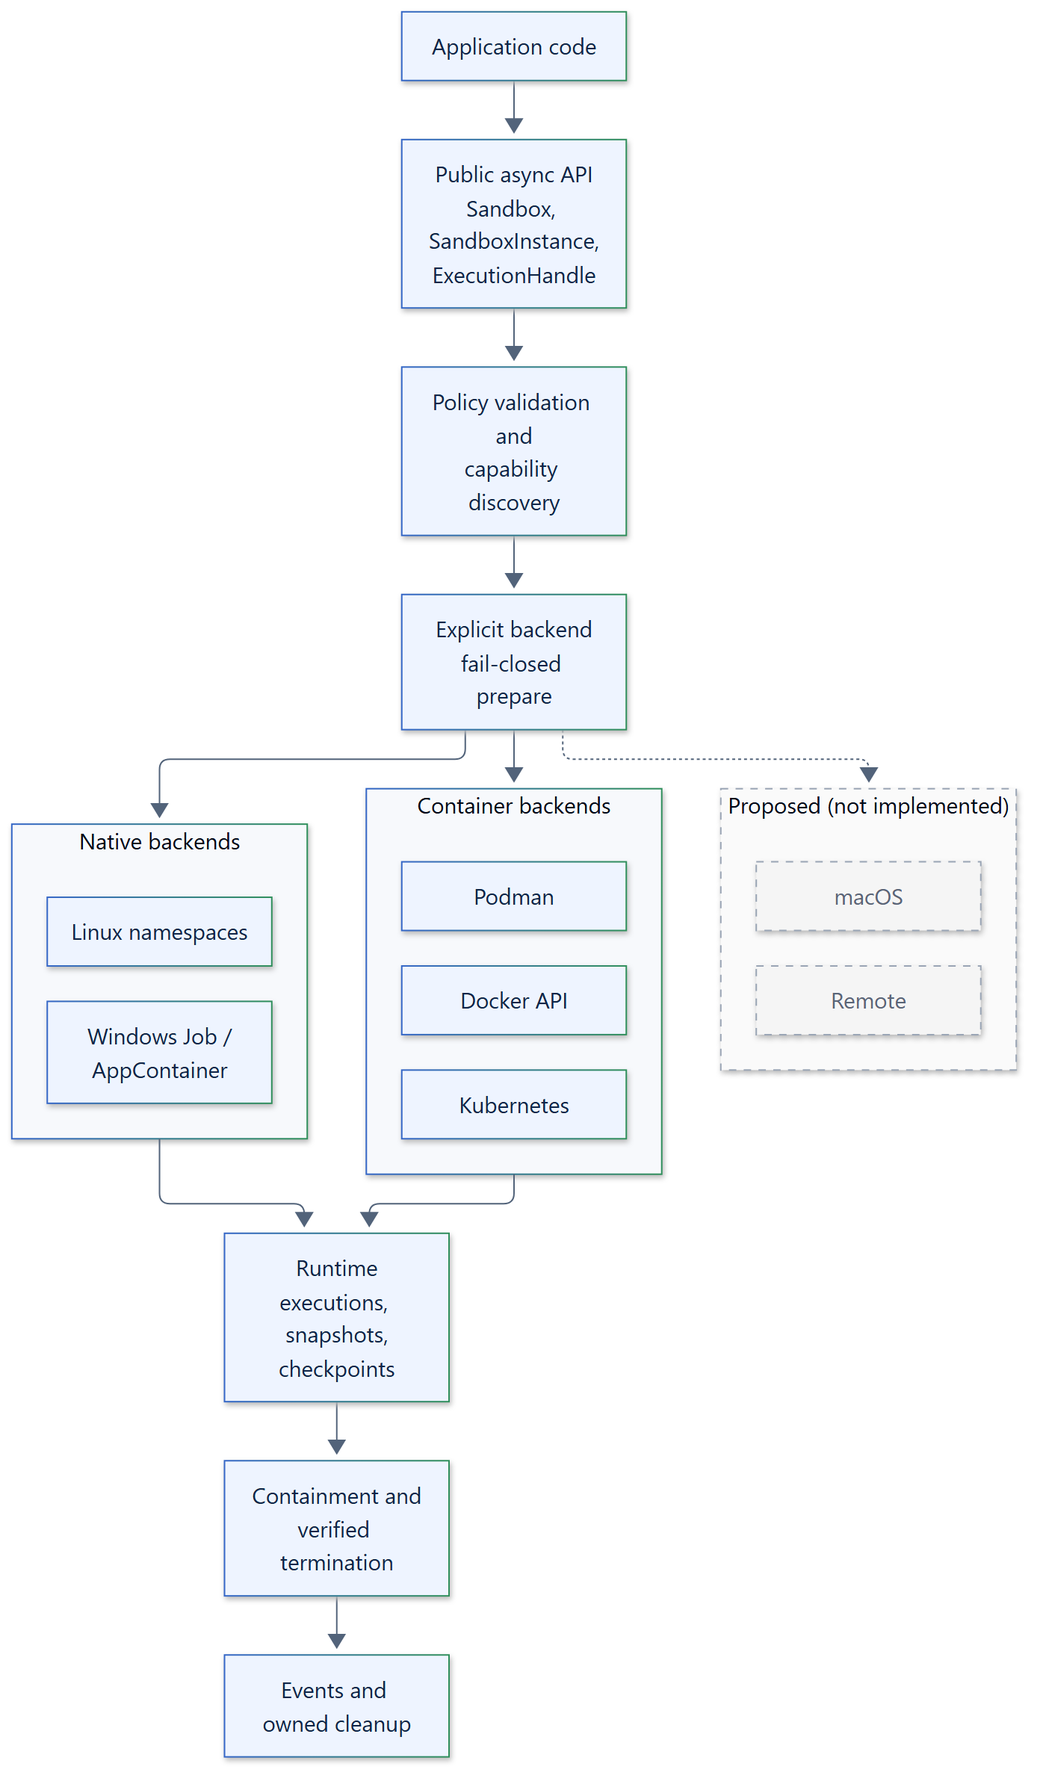
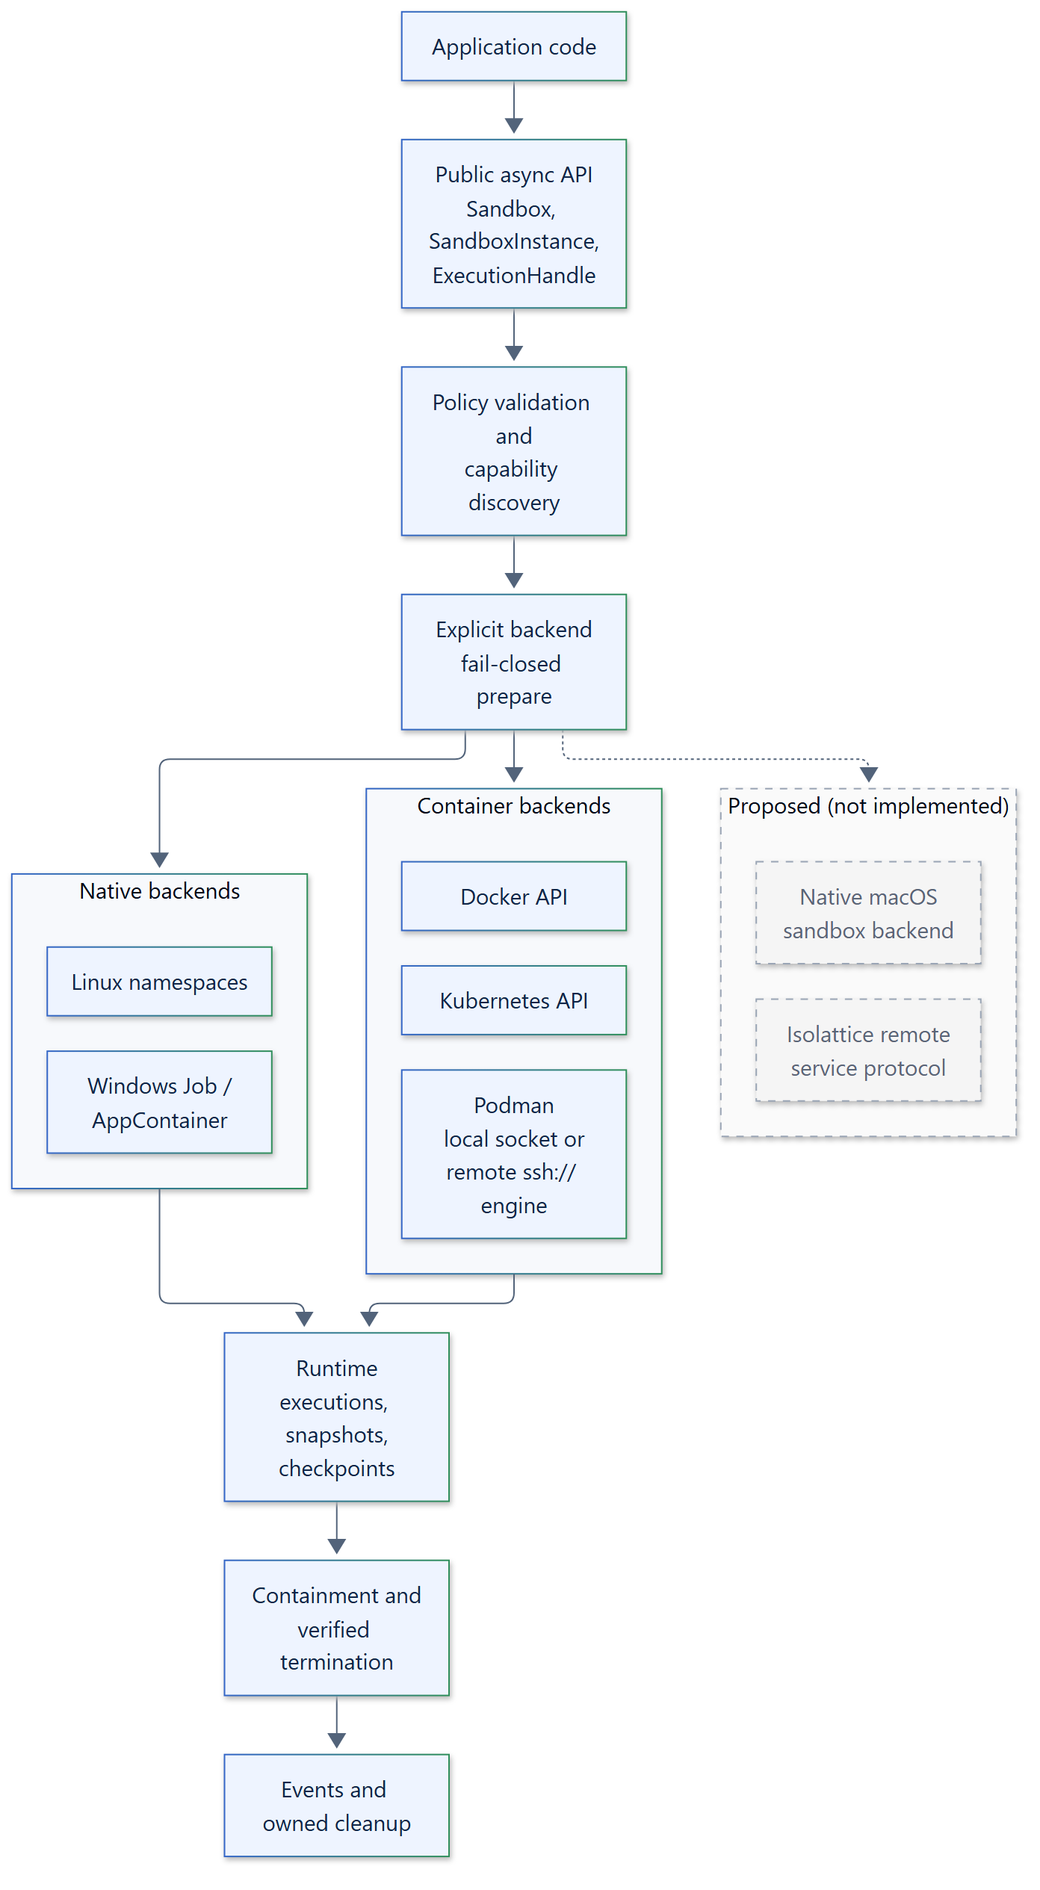
Test remote Podman over SSH in CI and document tested platforms
Add a live job that drives the Podman suite through an ssh:// connection.
Let AppContainers read the real base interpreter tree on Windows runners.
Add a tested-platforms page listing every CI job and what it verifies, and
describe macOS as a tested host using container backends and remote engines
as supported; only a native macOS backend and an Isolattice remote service
remain proposed.

Changed region(s): [[0.2162, 0.0, 0.6487, 0.9883], [0.6796, 0.4015, 0.9885, 0.6177], [0.0, 0.4324, 0.3089, 0.6486]]

diff --git a/docs/reference/tested-platforms.md b/docs/reference/tested-platforms.md
@@ -1,0 +1,88 @@
+# Tested platforms
+
+Every push and pull request runs the
+[CI workflow](https://github.com/smuniharish/isolattice/blob/main/.github/workflows/ci.yml).
+GitHub starts all of its jobs at once and runs them in parallel, up to the account's
+concurrency limit. This page lists what each job verifies. A platform appears here
+only when a job checks it on every run.
+
+## Core suite
+
+The core suite covers the unit, property-based (Hypothesis), contract and skill
+tests: policy validation, capability discovery, the lifecycle state machine, the
+termination engine, bounded output, the artifact stores, snapshot manifests and
+every backend's command and API contract. Warnings fail the run.
+
+| Platform | Images | Python |
+| --- | --- | --- |
+| Ubuntu, x64 | 22.04, 24.04, 26.04 | 3.12, 3.13, 3.14, 3.15 |
+| Ubuntu, arm64 | 22.04, 24.04, 26.04 | 3.12, 3.13, 3.14, 3.15 |
+| Windows, x64 | Server 2022, Server 2025 | 3.12, 3.13, 3.14, 3.15 |
+| Windows, arm64 | Windows 11 | 3.12, 3.13, 3.14, 3.15 |
+| macOS, Apple silicon | 15, 26 | 3.12, 3.13, 3.14, 3.15 |
+| macOS, Intel | 15, 26 | 3.12, 3.13, 3.14, 3.15 |
+| glibc distributions | Debian stable, Fedora, AlmaLinux, Rocky Linux, Amazon Linux, openSUSE Leap, openSUSE Tumbleweed, Arch Linux | 3.12, 3.14 |
+| musl distributions | Alpine, Void Linux | 3.12, 3.14 |
+| BSD | FreeBSD, OpenBSD, NetBSD virtual machines | The system Python package |
+
+The distribution containers run as an unprivileged user, so permission checks behave
+as they do for real callers. The BSD jobs install the built wheel, not the source
+tree. On Windows images the Job Object and AppContainer tests also run, because they
+need no extra setup.
+
+## Live backends
+
+Live jobs provision a real engine, cluster or kernel feature and run the backend's
+integration tests and example scripts against it. Each job fails if a configured
+live test skips or if nothing runs. It also fails if a resource that Isolattice
+labelled as its own is left behind.
+
+| Job | Runner | What runs |
+| --- | --- | --- |
+| Live Podman | Ubuntu, Python 3.12 and 3.14 | Rootless engine, rootful engine with runc, delegated memory, CPU and pids limits, pod instance budgets, CRIU checkpoints and restore, whole-container snapshots, and the S3 artifact store against a disposable object store |
+| Live Podman over SSH | Ubuntu, Python 3.14 | The Podman suite through an `ssh://` connection with a dedicated key and pinned host key, as with a remote engine |
+| Live Docker Engine | Ubuntu | `DockerBackend` against the runner's Docker Engine |
+| Live Kubernetes | Ubuntu | `KubernetesBackend` against a single-node kind cluster |
+| Live Linux namespaces | Ubuntu 24.04 | `LinuxNamespaceBackend` in a delegated systemd scope: namespaces, cgroup v2 limits, seccomp and Landlock |
+| Live Windows | Windows Server 2025, Python 3.12 and 3.14 | `WindowsJobBackend`, the ACL grants, and every `WindowsAppContainerBackend` case, including the check for leftover AppContainer profiles |
+
+The SSH job covers the default Podman profile. Checkpoints, resource limits and S3
+run in the main Podman job.
+
+## Packaging and documentation
+
+| Job | What runs |
+| --- | --- |
+| Lint | Ruff, the Ruff formatter, and Pyrefly for Linux, Windows and macOS, plus repository checks |
+| Lowest dependencies | The full suite on Python 3.12 with the lowest supported version of each dependency |
+| Package | Builds the sdist and wheel, runs `twine check --strict`, and smoke-tests the wheel with and without the S3 extra |
+| Documentation | A strict Zensical build, a link check and a diagram check |
+| Markdown | `markdownlint-cli2` |
+| Coverage | Combines branch coverage from the core and live jobs |
+
+## Verified locally
+
+Maintainers also run the live suites on Windows 11 with Podman Desktop (a Podman
+machine reached over SSH, rootless and rootful), Podman's Docker-compatible API,
+a kind cluster and WSL 2 with a delegated systemd scope.
+
+## Not covered
+
+- **Native macOS sandboxing.** There is no macOS backend, so macOS jobs run only the
+  core suite. Hosted macOS runners can't start a Podman machine because they don't
+  support nested virtualization. On a Mac, use a container backend with a local
+  Podman machine or a remote engine.
+- **Restricted low-integrity tokens on hosted Windows.** Hosted runners either
+  disable User Account Control or can't initialize a low-integrity process. The
+  backend reports the token as unavailable and refuses the policy; it doesn't fall
+  back.
+- **The Isolattice remote service.** The
+  [remote backend protocol](../architecture/15-remote-backend-protocol.md) is
+  proposed. Remote engines through Podman, Docker or Kubernetes connections are
+  supported and tested.
+
+## Related
+
+- [Testing](../development/testing.md)
+- [Platform limitations](../security/platform-limitations.md)
+- [Capabilities](capabilities.md)

diff --git a/README.md b/README.md
@@ -96,14 +96,24 @@ guarantees each one does and doesn't give you.
 
 | Backend | Boundary | Live-tested on |
 | --- | --- | --- |
-| `PodmanBackend` | One restricted container per execution; rootless by default | Podman machine, rootless and rootful |
-| `DockerBackend` | One restricted container per execution through the Docker Engine API | Podman's Docker-compatible API |
-| `KubernetesBackend` | One owned Pod per execution in an explicit namespace; no network isolation | Single-node kind cluster |
-| `LinuxNamespaceBackend` | User, PID, mount, network, IPC and UTS namespaces, delegated cgroup v2, seccomp and Landlock | WSL 2 with a delegated systemd scope |
-| `WindowsAppContainerBackend` | Less-privileged AppContainer inside nested Job Objects; no network | Windows 11 |
-| `WindowsJobBackend` | Job Object containment and budgets. **Not a security boundary:** files, network and registry stay reachable | Windows 11 |
+| `PodmanBackend` | One restricted container per execution; rootless by default | CI on Ubuntu: rootless, rootful runc with CRIU, and a remote engine over `ssh://`. Locally: Podman machine on Windows 11 |
+| `DockerBackend` | One restricted container per execution through the Docker Engine API | CI: Docker Engine on Ubuntu. Locally: Podman's Docker-compatible API |
+| `KubernetesBackend` | One owned Pod per execution in an explicit namespace; no network isolation | Single-node kind cluster, in CI and locally |
+| `LinuxNamespaceBackend` | User, PID, mount, network, IPC and UTS namespaces, delegated cgroup v2, seccomp and Landlock | CI on Ubuntu 24.04 and WSL 2, each with a delegated systemd scope |
+| `WindowsAppContainerBackend` | Less-privileged AppContainer inside nested Job Objects; no network | CI on Windows Server, and Windows 11 |
+| `WindowsJobBackend` | Job Object containment and budgets. **Not a security boundary:** files, network and registry stay reachable | CI on Windows Server, and Windows 11 |
 
-A macOS backend and remote execution are proposed and not implemented. The
+**macOS** is a tested host: CI runs the full core suite on macOS 15 and 26 (Apple
+silicon and Intel). Workloads on a Mac run through a container backend, against
+a Podman machine or a remote engine. A native macOS sandbox backend (Seatbelt)
+is proposed and not implemented.
+
+**Remote engines** are supported: a Podman `ssh://` connection, a remote Docker
+host or a kubeconfig context. The SSH path is live-tested in CI. A dedicated
+Isolattice remote service, with leases and failover, is proposed.
+
+The [tested platforms](https://isolattice.readthedocs.io/en/latest/reference/tested-platforms/)
+page lists every CI job and what it verifies. The
 [platform limitations](https://isolattice.readthedocs.io/en/latest/security/platform-limitations/)
 page lists what each backend doesn't enforce.
 

diff --git a/docs/comparisons/remote-execution-vs-isolattice.md b/docs/comparisons/remote-execution-vs-isolattice.md
@@ -3,26 +3,28 @@
 Remote execution covers anything that runs work on another machine: SSH, task queues
 such as Celery, hosted code-execution sandboxes and cloud batch services.
 
-!!! note "Proposed in Isolattice"
-    A remote backend and its remote backend protocol are proposed, not implemented.
-    There is no remote API to call today. See the [remote backend](../backends/remote.md)
-    page and the [remote backend protocol](../architecture/15-remote-backend-protocol.md).
+!!! note "Remote engines today, remote service proposed"
+    Podman, Docker and Kubernetes backends can drive an engine or cluster on another
+    host today; CI tests Podman over `ssh://`. A dedicated Isolattice remote service and
+    its [remote backend protocol](../architecture/15-remote-backend-protocol.md) are
+    proposed, not implemented. See the [remote](../backends/remote.md) page.
 
 ## When to use which
 
-- **Use an existing remote system** whenever you need work to run elsewhere today. Task
-  queues, SSH and hosted sandboxes are the right choice for distribution, scaling and
+- **Use an existing remote system** when you need scheduling, queues or distribution.
+  Task queues, SSH and hosted sandboxes are the right choice for scaling and
   machine-level isolation.
+- **Point a container backend at a remote engine** to run contained workloads on a
+  bigger machine: a Podman `ssh://` connection, a remote Docker host or a kubeconfig
+  context.
 - **Use Isolattice on the remote worker** to contain each command the worker runs:
   install Isolattice on that machine and use a local backend there.
-- **Use `KubernetesBackend`** if "remote" for you means a cluster: it runs Pods through
-  the Kubernetes API from wherever your application runs.
 
 ## Comparison
 
 | | Remote execution systems | Isolattice today |
 | --- | --- | --- |
-| Runs work on another host | Yes | Only via `KubernetesBackend` (cluster Pods) or by running Isolattice on that host |
+| Runs work on another host | Yes | Through a remote Podman, Docker or Kubernetes engine, or by running Isolattice on that host |
 | Scheduling, retries, queues | Usually | No |
 | Per-command containment | Depends on the system | Yes, per backend and policy |
 | Verified process-tree cleanup | Rarely exposed | Yes |

diff --git a/docs/guides/remote-execution.md b/docs/guides/remote-execution.md
@@ -1,9 +1,10 @@
 # Remote execution
 
-!!! warning "Proposed: not implemented"
-    Remote execution is a **proposed** design. Isolattice has no remote backend, no
-    remote protocol client or server, and no scheduler. Nothing on this page can be
-    used today.
+!!! note "Remote engines are supported; the Isolattice remote service is proposed"
+    Podman, Docker and Kubernetes backends can drive an engine or cluster on another
+    machine today, and CI tests the Podman `ssh://` path on every push. A dedicated
+    Isolattice remote service, with leases, failover and orphan reconciliation, is a
+    **proposed** design with no implementation.
 
 ## What exists today
 
@@ -12,16 +13,17 @@ the Python process reaches directly:
 
 - The Linux namespace and Windows backends run on the same host as your code.
 - `PodmanBackend`, `DockerBackend` and `KubernetesBackend` drive an engine client
-  (`podman`, `docker`, `kubectl`). That client can already talk to an engine on
-  another machine through its own connection mechanism: a Podman connection, a Docker
-  host URL or a kubeconfig context. The Isolattice runtime, its termination
-  verification and its artifact staging stay on the client host.
+  (`podman`, `docker`, `kubectl`). That client can talk to an engine on
+  another machine through its own connection mechanism: a Podman `ssh://`
+  connection, a Docker host URL or a kubeconfig context. The Isolattice runtime,
+  its termination verification and its artifact staging stay on the client host.
+  See the [remote engines](../backends/remote.md) page.
 
 These backends share the host or node kernel, so kernel, engine and cluster
 exploits are out of scope wherever the engine runs.
 
-Using an engine connection to a remote host is not "remote execution" in the proposed
-sense. There are no leases, no endpoint failover and no orphan reconciliation across
+Using an engine connection to a remote host is not the proposed Isolattice remote
+service. There are no leases, no endpoint failover and no orphan reconciliation across
 hosts; if the client host disappears, cleanup depends on the engine (for example the
 Kubernetes `activeDeadlineSeconds` backstop) and operator reconciliation by label.
 

diff --git a/docs/backends/remote.md b/docs/backends/remote.md
@@ -1,12 +1,48 @@
-# Remote backend
+# Remote execution
 
-**Proposed, not implemented.** Isolattice has no remote backend, remote execution
-service or client API. All built-in backends run on the local host or against a
-locally configured engine or cluster.
+There are two kinds of remote execution: remote engines, which are supported, and an
+Isolattice remote service, which is proposed.
+
+## Remote engines: supported
+
+The container backends drive an engine client, and that client can reach an engine
+on another machine:
+
+| Backend | Remote target |
+| --- | --- |
+| [Podman](podman.md) | A named `ssh://` Podman connection |
+| [Docker API](docker.md) | A remote Docker host |
+| [Kubernetes](kubernetes.md) | Any cluster in a kubeconfig context |
+
+CI runs the Podman suite through an `ssh://` connection on every push (see
+[tested platforms](../reference/tested-platforms.md)). The same transport is used
+daily with Podman machines on Windows and macOS. The policy, capability checks and
+verified termination work the same as for a local engine, and Isolattice removes
+only resources labelled as its own.
+
+```bash
+podman system connection add --identity ~/.ssh/id_ed25519 build-host \
+    ssh://builder@build-host.example:22/run/user/1000/podman/podman.sock
+```
+
+```python
+from isolattice import PodmanBackend
+
+backend = PodmanBackend(connection="build-host", image="docker.io/library/alpine:3.22")
+```
+
+The engine enforces the boundary on the remote host. If the client host disappears,
+cleanup depends on the engine (for example the Kubernetes `activeDeadlineSeconds`
+backstop) and on operator reconciliation by label.
+
+## Isolattice remote service: proposed
+
+**Proposed, not implemented.** No Isolattice server, wire protocol, endpoint
+registry or scheduler exists.
 
 !!! note "Status"
     The [remote backend protocol](../architecture/15-remote-backend-protocol.md) is a
-    design document only. No wire protocol, endpoint configuration or scheduler exists.
+    design document only.
 
 The design calls for:
 

diff --git a/docs/index.md b/docs/index.md
@@ -61,13 +61,15 @@ gone afterwards, is not.
 
 | Backend | Boundary | Status |
 | --- | --- | --- |
-| [Podman](backends/podman.md) | One container per execution, rootless by default | Implemented; verified live on Podman 6.1.4, rootless and rootful |
+| [Podman](backends/podman.md) | One container per execution, rootless by default | Implemented; verified live in CI (rootless, rootful with CRIU, remote over `ssh://`) and on Podman 6.1.4 locally |
 | [Docker API](backends/docker.md) | One container per execution through the Docker Engine API | Implemented; verified live on Docker Engine 29.9.3 and Podman's Docker-compatible API |
 | [Kubernetes](backends/kubernetes.md) | One Pod per execution | Implemented; verified live on kind |
-| [Linux namespaces](backends/linux.md) | User, PID, mount, network, IPC and UTS namespaces with a delegated cgroup | Implemented; verified live in WSL2 Ubuntu 24.04 |
-| [Windows](backends/windows.md) | AppContainer token with a Job Object, or a Job Object alone | Implemented; verified live on Windows 11 |
-| [macOS](backends/macos.md) | Seatbelt evaluation only | Proposed |
-| [Remote](backends/remote.md) | Remote execution service | Proposed |
+| [Linux namespaces](backends/linux.md) | User, PID, mount, network, IPC and UTS namespaces with a delegated cgroup | Implemented; verified live in CI on Ubuntu 24.04 and in WSL2 Ubuntu 24.04 |
+| [Windows](backends/windows.md) | AppContainer token with a Job Object, or a Job Object alone | Implemented; verified live in CI on Windows Server and on Windows 11 |
+| [macOS](backends/macos.md) | Tested host using the container backends | Core suite tested in CI; native Seatbelt backend proposed |
+| [Remote](backends/remote.md) | Remote engines through Podman, Docker or Kubernetes connections | Remote engines supported, with Podman over `ssh://` tested in CI; Isolattice remote service proposed |
+
+See [tested platforms](reference/tested-platforms.md) for every CI job.
 
 ## A first look
 

diff --git a/docs/backends/macos.md b/docs/backends/macos.md
@@ -1,7 +1,22 @@
-# macOS backend
+# macOS
 
-**Proposed, not implemented.** Isolattice has no macOS backend and no macOS API. On
-macOS, use a container backend such as [Podman](podman.md) through a Linux VM.
+**Supported host; native backend proposed.** macOS is a tested Isolattice host:
+CI runs the full core suite on macOS 15 and 26, on Apple silicon and Intel, with
+Python 3.12 to 3.15 (see [tested platforms](../reference/tested-platforms.md)).
+On macOS, run workloads through a container backend:
+
+- [Podman](podman.md) with a local Podman machine (a Linux VM, for example one
+  managed by [Podman Desktop](../guides/podman-desktop.md)) or an `ssh://`
+  connection to a remote engine;
+- [Docker API](docker.md) against a local or remote Docker-compatible engine;
+- [Kubernetes](kubernetes.md) through a kubeconfig context.
+
+The engine enforces the boundary inside its Linux VM or on the remote host, so the
+capabilities are the same as on any other client.
+
+## Native backend
+
+There is no native macOS sandbox backend and no macOS-specific API.
 
 !!! note "Status"
     Only an evaluation of Seatbelt (`sandbox-exec`) and App Sandbox exists. Neither

diff --git a/docs/architecture/10-process-containment.md b/docs/architecture/10-process-containment.md
@@ -19,8 +19,8 @@ is verified empty and released.
 | Windows AppContainer | An execution Job Object nested in the instance job | Created inside the AppContainer and both jobs by one `CreateProcessW` call in a launcher |
 | Podman, Docker API | A container ID labelled `io.isolattice.sandbox` | Engine inspection by ID; the container's PID namespace and cgroup hold the tree |
 | Kubernetes | A Pod name with its UID | UID-preconditioned deletion; the API server must report the Pod gone |
-| macOS | Proposed | No backend; Seatbelt alone has no process-tree boundary |
-| Remote | Proposed | No backend |
+| Native macOS | Proposed | No backend; Seatbelt alone has no process-tree boundary. macOS hosts use the container backends |
+| Isolattice remote service | Proposed | No backend. Remote Podman, Docker and Kubernetes engines use the rows above |
 
 ## Launch
 

diff --git a/docs/architecture/01-project-overview.md b/docs/architecture/01-project-overview.md
@@ -32,8 +32,10 @@ cannot enforce.
 | CRIU execution checkpoints and restore | Implemented: rootful Podman only |
 | Whole-container snapshots | Implemented: Podman |
 | Artifact stores (local, S3), event sinks, command runners | Implemented |
-| macOS backend | Proposed; Seatbelt evaluation only |
-| Remote backend and remote execution protocol | Proposed |
+| macOS hosts through the container backends | Implemented; core suite tested in CI |
+| Remote engines through Podman `ssh://`, Docker hosts or kubeconfig contexts | Implemented; Podman over SSH tested in CI |
+| Native macOS backend | Proposed; Seatbelt evaluation only |
+| Isolattice remote service and remote execution protocol | Proposed |
 | Framework integrations | Proposed |
 | OpenTelemetry and metrics exporters | Proposed; write an `EventSink` today |
 

diff --git a/docs/architecture/21-packaging-and-distribution.md b/docs/architecture/21-packaging-and-distribution.md
@@ -44,8 +44,10 @@ and `dev`, the default), not in extras, so they never reach users.
 The pure-Python wheel installs on Linux, Windows and macOS. Backend availability
 depends on the host: the Linux and Windows backends need their operating system, and
 container backends need a reachable engine or cluster. On macOS only the container
-backends are usable; a native macOS backend is proposed. CI runs the unit suite on
-Linux, Windows and macOS with Python 3.12 and 3.14.
+backends are usable; a native macOS backend is proposed. CI runs the core suite on
+every GitHub-hosted Linux, Windows and macOS image with Python 3.12 to 3.15, and on
+other Linux distributions and the BSDs; see
+[tested platforms](../reference/tested-platforms.md).
 
 ## Release
 

diff --git a/docs/reference/capabilities.md b/docs/reference/capabilities.md
@@ -82,9 +82,10 @@ Notes:
 
 Per-backend evidence details are on the [Linux](../backends/linux.md),
 [Windows](../backends/windows.md), [Podman](../backends/podman.md),
-[Docker](../backends/docker.md) and [Kubernetes](../backends/kubernetes.md) pages. The
-[macOS](../backends/macos.md) and [remote](../backends/remote.md) backends are proposed
-and not implemented.
+[Docker](../backends/docker.md) and [Kubernetes](../backends/kubernetes.md) pages. On
+[macOS](../backends/macos.md) and against [remote engines](../backends/remote.md), use
+those container backends; a native macOS backend and an Isolattice remote service are
+proposed and not implemented.
 
 ## Example
 

diff --git a/docs/architecture/02-architecture-overview.md b/docs/architecture/02-architecture-overview.md
@@ -8,7 +8,9 @@ integrity and error composition. Backends own enforcement and boundary observati
 
 ![Layered architecture: public API, policy, explicit backend, runtime, verified termination and events](../assets/diagrams/architecture-overview.png)
 
-The macOS and remote backends are proposed and not implemented; they appear dashed.
+Podman connections may point at a local socket or a remote engine over `ssh://`. A
+native macOS sandbox backend and an Isolattice remote service protocol are proposed
+and not implemented; they appear dashed. macOS hosts use the container backends.
 
 ## Modules
 
